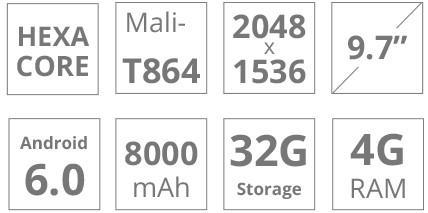
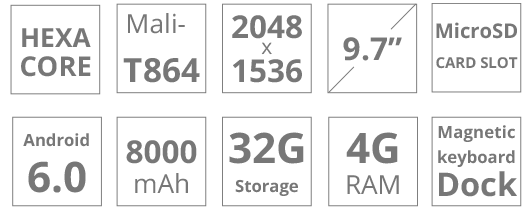
update specs

diff --git a/recpad10pro.html b/recpad10pro.html
@@ -220,7 +220,7 @@
 				<h2 class="text-center txt--primary_on_light txt--title">2048 x 1536 Display: Dazzling Visuals</h2>
 <!-- 				<div class="row">
 					<div class="col-md-8 col-md-offset-2 margin--element_top">
-						<p>With 2048 x 1536 resolution at 326 pixels per inch (PPI), RecPad 10 Pro’s IPS high resolution display renders text and images beautifully whether you are reading an e-book, browsing the web, watching videos or playing games. </p>						
+						<p>With 2048 x 1536 resolution at 264 pixels per inch (PPI), RecPad 10 Pro’s IPS high resolution display renders text and images beautifully whether you are reading an e-book, browsing the web, watching videos or playing games. </p>						
 					</div>
 				</div> -->
 				<img src="img/tablet/recpad10pro/display.jpg" class="img-responsive center-block margin--element_top" alt="Quad-Core CPU">
@@ -306,10 +306,10 @@
 						<p class="txt--lg txt--primary_on_light">Dimensions and Weight</p>
 					</div>
 					<div class="col-md-7">
-						<p class="txt--lg">Width: 7.1”(181mm)</p>
-						<p class="txt--lg">Height: 9.4”(240mm)</p>
-						<p class="txt--lg">Depth: 0.29”(7.4mm)</p>
-						<p class="txt--lg">Weight: 1.32lbs(600g)</p>
+						<p class="txt--lg">Width: 6.7”(171mm)</p>
+						<p class="txt--lg">Height: 9.5”(243mm)</p>
+						<p class="txt--lg">Depth: 0.31”(7.9mm)</p>
+						<p class="txt--lg">Weight: 1.1lbs(500g)</p>
 					</div>
 				</div>
 				
@@ -332,7 +332,7 @@
 					</div>
 					<div class="col-md-7">
 						<p class="txt--lg">32GB ROM</p>
-						<p class="txt--lg">DDR3L 4GB RAM</p>
+						<p class="txt--lg">DDR3 4GB RAM</p>
 					</div>
 				</div>
 
@@ -365,7 +365,7 @@
 						<p class="txt--lg txt--primary_on_light">Battery</p>
 					</div>
 					<div class="col-md-7">
-						<p class="txt--lg">8000mAh/4.35V</p>
+						<p class="txt--lg">7800mAh/5V</p>
 					</div>
 				</div>
 
@@ -391,7 +391,7 @@
 					</div>
 					<div class="col-md-7">
 						<p class="txt--lg">IEEE802.11a/b/g/n, supporting 2.4 GHz and 5 GHz bands</p>
-						<p class="txt--lg">Bluetooth 4.0</p>
+						<p class="txt--lg">Bluetooth 4.1</p>
 					</div>
 				</div>
 
@@ -413,7 +413,7 @@
 						<p class="txt--lg txt--primary_on_light">Camera</p>
 					</div>
 					<div class="col-md-7">
-						<p class="txt--lg">Rear Camera: 8.0 Mega pixel w/ Auto-Focus</p>
+						<p class="txt--lg">Rear Camera: 13.0 Mega pixel w/ Auto-Focus</p>
 						<p class="txt--lg">Front Camera: 5.0 Mega pixel</p>
 					</div>
 				</div>
